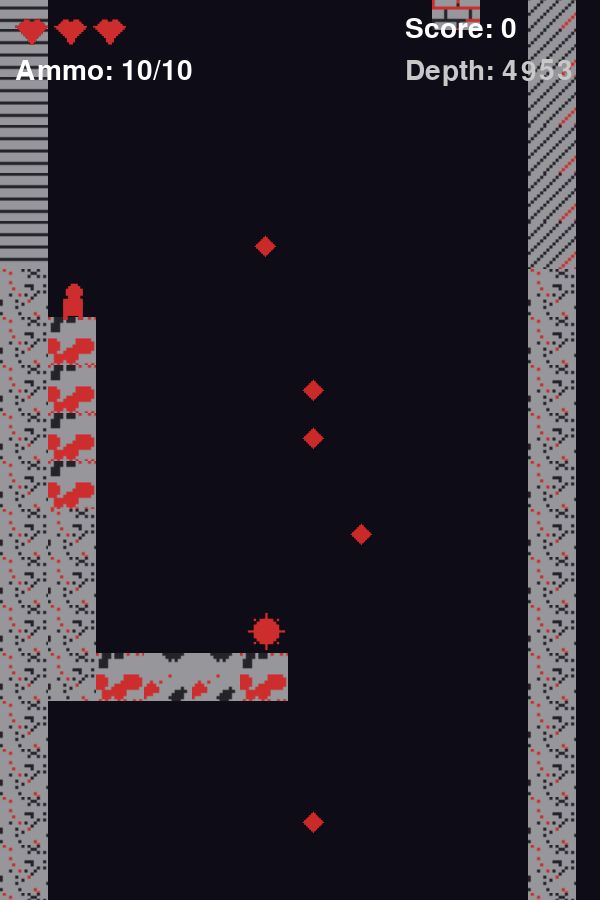
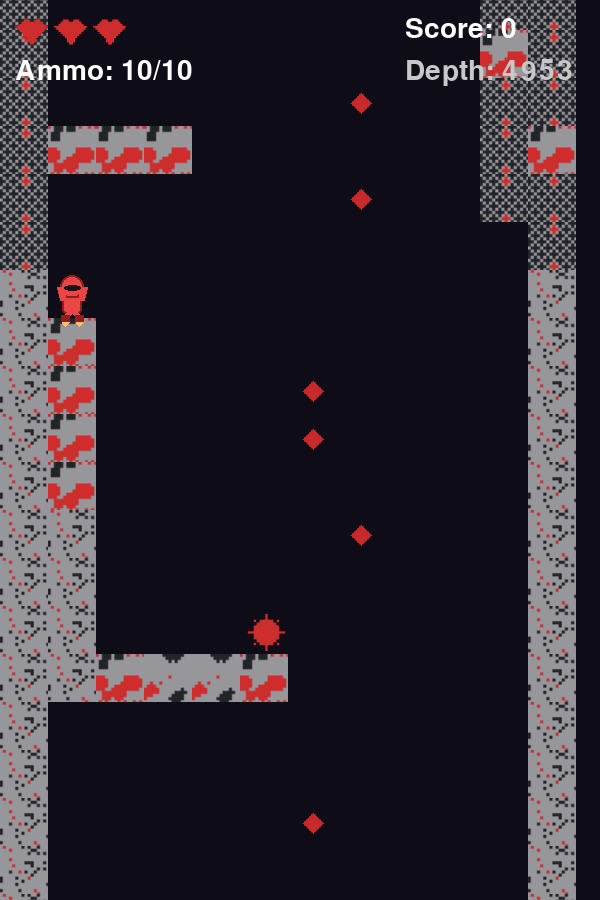
Downwell -> "Il Pozzo": rename + directional falling-guy sprites
- Renamed to "Il Pozzo" (window caption + kiosk label + Pi Ports slot;
  retropie_push gained remove_slot() to drop the old "Downwell" slot).
- The player is now drawn procedurally (make_player_sprites) instead of a
  single flat PNG: a red gunboots diver with helmet + visor, in four
  poses picked from velocity + steering:
    fall        - arms streaming up, small boot flames
    fall_left   - fall pose leant 20 deg into the move
    fall_right  - mirror
    jump        - compact, big boot blast (just fired to leap)
  handle_input tracks self.moving (-1/0/1); _player_pose() chooses.
- thumb.png regenerated.

Verified: launches on the Pi via the new "Il Pozzo.sh", py3.5-clean.

Claude-Session: https://claude.ai/code/session_01Qh1Vt5eAwX39zwnrJKVyF6

diff --git a/game_templates/downwell/downwell_clone.py b/game_templates/downwell/downwell_clone.py
@@ -113,6 +113,66 @@ def load_terrain_tiles(size):
     return [load_sprite(f, size, base_dir=TERRAIN_DIR) for f in files]
 
 
+def make_player_sprites(size):
+    """The falling guy (a red gunboots diver, Downwell style), pixel-art in the
+    game's palette. Four poses: falling straight, drifting left, drifting right,
+    and springing up from a jump. Left/right are the fall pose leant into the
+    move. Returned as {'fall','fall_left','fall_right','jump'}."""
+    W, H = size
+    RED = (234, 70, 70)
+    DRK = (150, 28, 28)
+    VIS = (30, 18, 26)          # dark visor slit
+    FIRE = (255, 196, 92)       # gunboot flame
+
+    def draw_figure(flame_len, arms_up):
+        s = pygame.Surface((W, H), pygame.SRCALPHA)
+        cx = W // 2
+        hr = int(W * 0.28)
+        # helmet
+        head = pygame.Rect(0, 0, hr * 2, hr * 2)
+        head.center = (cx, 2 + hr)
+        pygame.draw.ellipse(s, RED, head)
+        pygame.draw.ellipse(s, DRK, head, 2)
+        # visor slit
+        vis = pygame.Rect(0, 0, int(hr * 1.6), max(3, int(hr * 0.5)))
+        vis.center = (cx, head.centery + int(hr * 0.15))
+        pygame.draw.ellipse(s, VIS, vis)
+        # torso
+        torso = pygame.Rect(0, 0, int(W * 0.46), int(H * 0.34))
+        torso.midtop = (cx, head.bottom - 3)
+        pygame.draw.rect(s, RED, torso, border_radius=4)
+        pygame.draw.rect(s, DRK, torso, 2, border_radius=4)
+        # arms
+        aw = max(3, int(W * 0.16))
+        for side in (-1, 1):
+            ax = cx + side * (torso.width // 2 - 1)
+            if arms_up:
+                pygame.draw.line(s, RED, (ax, torso.top + 4),
+                                 (ax + side * 3, head.centery), aw)
+            else:
+                pygame.draw.line(s, RED, (ax, torso.top + 4),
+                                 (ax + side * 5, torso.bottom - 2), aw)
+        # legs + gunboots + flame
+        lw = max(3, int(W * 0.17))
+        for side in (-1, 1):
+            fx = cx + side * int(W * 0.16)
+            pygame.draw.line(s, RED, (cx + side * 2, torso.bottom - 2), (fx, H - 10), lw)
+            pygame.draw.rect(s, DRK, (fx - 4, H - 12, 9, 7))          # boot
+            if flame_len:
+                pygame.draw.polygon(s, FIRE, [(fx - 3, H - 5), (fx + 4, H - 5),
+                                              (fx + int(0.5), H - 5 + flame_len)])
+        return s
+
+    fall = draw_figure(flame_len=4, arms_up=True)
+    jump = draw_figure(flame_len=max(7, int(H * 0.22)), arms_up=False)
+    return {
+        "fall": fall,
+        "fall_left": pygame.transform.rotate(fall, 20),
+        "fall_right": pygame.transform.rotate(fall, -20),
+        "jump": jump,
+    }
+
+
 class Bullet:
     def __init__(self, x, y, vx=0.0):
         self.x = x
@@ -286,7 +346,7 @@ class DownwellClone:
             pygame.mixer.init(frequency=22050, size=-16, channels=1)
         except pygame.error:
             pass
-        self.screen = kiosk_screen.setup(WIDTH, HEIGHT, "Downwell Clone")
+        self.screen = kiosk_screen.setup(WIDTH, HEIGHT, "Il Pozzo")
         self.clock = pygame.time.Clock()
         self.font = pygame.font.SysFont(None, int(28 * SCALE))
 
@@ -300,7 +360,8 @@ class DownwellClone:
                     pass
 
         self.terrain_tiles = load_terrain_tiles((TILE, TILE))
-        self.player_sprite = load_sprite("player.png", (int(26 * SCALE), int(26 * SCALE)))
+        self.player_sprites = make_player_sprites((int(30 * SCALE), int(36 * SCALE)))
+        self.player_sprite = self.player_sprites["fall"]
         self.enemy_tile = load_sprite("enemy.png", (int(30 * SCALE), int(30 * SCALE)))
         self.gem_tile = load_sprite("gem.png", (int(18 * SCALE), int(18 * SCALE)))
         self.bullet_sprite = load_sprite("bullet.png", (int(10 * SCALE), int(10 * SCALE)))
@@ -322,6 +383,15 @@ class DownwellClone:
             self._text_cache[slot] = entry
         return entry[1]
 
+    def _player_pose(self):
+        if self.vel_y < -1.5:                 # still rising from a jump
+            return "jump"
+        if self.moving < 0:
+            return "fall_left"
+        if self.moving > 0:
+            return "fall_right"
+        return "fall"
+
     def reset(self):
         self.ammo = MAX_AMMO
         self.hp = MAX_HP
@@ -333,6 +403,7 @@ class DownwellClone:
         self.invuln_timer = 0
         self.on_ground = False
         self.vel_y = 0.0
+        self.moving = 0            # -1 / 0 / 1: which way the guy is steering
         self.particles = []
         self.rapid_fire_timer = 0
         self.spread_timer = 0
@@ -415,10 +486,13 @@ class DownwellClone:
     def handle_input(self, keys):
         if self.game_over or self.win:
             return
+        self.moving = 0
         if keys[pygame.K_LEFT] or kiosk_joy.left():
             self.player_x -= MOVE_SPEED
+            self.moving = -1
         if keys[pygame.K_RIGHT] or kiosk_joy.right():
             self.player_x += MOVE_SPEED
+            self.moving = 1
         margin = int(12 * SCALE)
         self.player_x = max(margin, min(WIDTH - margin, self.player_x))
 
@@ -638,7 +712,8 @@ class DownwellClone:
 
         if self.invuln_timer == 0 or self.invuln_timer % 6 < 3:
             py = HEIGHT // 3
-            self.screen.blit(self.player_sprite, self.player_sprite.get_rect(center=(int(self.player_x), py)))
+            spr = self.player_sprites[self._player_pose()]
+            self.screen.blit(spr, spr.get_rect(center=(int(self.player_x), py)))
 
         pad = int(10 * SCALE)
         heart_step = int(26 * SCALE)

diff --git a/retropie_push.py b/retropie_push.py
@@ -169,6 +169,33 @@ def _launcher(slot_dir, run_rel, data_dir_env):
     return "\n".join(lines) + "\n"
 
 
+def remove_slot(slot_name, progress=None):
+    """Delete a Ports slot (its folder + .sh) from the Pi. Returns (ok, msg)."""
+    cfg = load_config()
+    if not cfg:
+        return False, "retropie.json mancante."
+    try:
+        import paramiko
+    except ImportError:
+        return False, "paramiko non installato."
+    cli = paramiko.SSHClient()
+    cli.set_missing_host_key_policy(paramiko.AutoAddPolicy())
+    try:
+        cli.connect(cfg["host"], username=cfg["user"], password=cfg.get("password"),
+                    timeout=10, allow_agent=False, look_for_keys=False)
+        ports = cfg["ports_dir"]
+        _run(cli, "rm -rf -- {0} {1}".format(
+            _shq(posixpath.join(ports, slot_name)),
+            _shq(posixpath.join(ports, slot_name + ".sh"))))
+        if progress:
+            progress('Rimosso lo slot "{}"'.format(slot_name))
+        return True, 'Slot "{}" rimosso.'.format(slot_name)
+    except Exception as exc:  # noqa: BLE001
+        return False, "Errore: {}".format(exc)
+    finally:
+        cli.close()
+
+
 def push(slot_name, run_rel, local_dir, data_dir_env=False, progress=None):
     """Copy ``local_dir`` to ``<ports_dir>/<slot_name>/`` and (re)write
     ``<slot_name>.sh``. Returns (ok, message). ``progress`` is an optional

diff --git a/dashboard_app.py b/dashboard_app.py
@@ -49,11 +49,11 @@ THUMB_FRAMES = {"downwell": 160, "space_invaders": 130, "platformer": 220, "raci
 # each push overwrites it); "pi_data_dir" flags games needing DOWNWELL_DATA_DIR.
 GAMES = {
     "downwell": {
-        "label": "Downwell",
+        "label": "Il Pozzo",
         "blurb": "Scendi nel pozzo infinito sparando ai nemici e raccogliendo gemme.",
         "template": os.path.join(TEMPLATES_DIR, "downwell"),
         "run": ("downwell_clone.py", "."),
-        "pi_slot": "Downwell",
+        "pi_slot": "Il Pozzo",
         "pi_data_dir": True,
         "editors": [
             ("Modifica Livello", "level_editor.py"),
